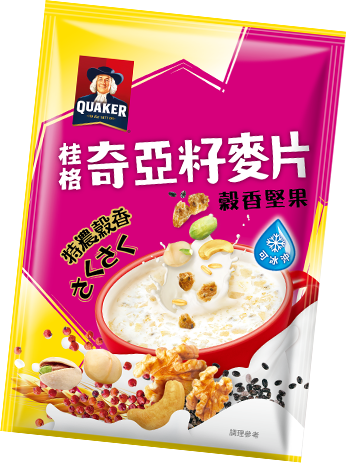
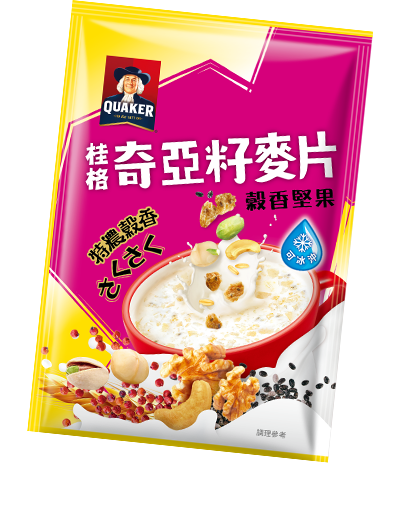
update main product info on desktop

diff --git a/css/index.sass b/css/index.sass
@@ -1056,28 +1056,11 @@ section#product
                                 width: 102px
                                 height: 96px
                                 background: url(../images/new.png) no-repeat center/contain
-                        .product05
-                            margin: 10px 0 10px 15px
-                            background-repeat: no-repeat
-                            background-size: contain
-                            background-position: top
-                            width: 346px
-                            height: 463px
-                            position: relative
-                            &::after
-                                content: ""
-                                position: absolute
-                                top: -40px
-                                left: -20px
-                                width: 102px
-                                height: 96px
-                                background: url(../images/new.png) no-repeat center/contain
                         .shadow
                             width: 331px
                             height: 28px
                             background-image: url(../images/product_shadow.png)
                             background-repeat: no-repeat
-                            margin-top: -50px
                     .info_box
                         float: left
                         position: relative
@@ -1303,23 +1286,6 @@ section#product
                     &.dot05
                         .bg
                             background-image: url(../images/product_dot05.png)
-                        .img
-                            .product05
-                                background-repeat: no-repeat
-                                background-size: contain
-                                background-position: top
-                                width: 195.2px
-                                height: 245px
-                                position: relative
-                                &::after
-                                    content: ""
-                                    position: absolute
-                                    bottom: -23.6px
-                                    right: -28px
-                                    width: 94px
-                                    height: 89px
-                                    background: url(../images/new.png) no-repeat center/contain
-                                    transform: rotate(45deg)
                         .name
                             p
                                 color: #d6007b
@@ -1401,7 +1367,7 @@ section#product
                                         border-width: 0px 3px 3px 0
                         &.dot05
                             .img
-                                .product05
+                                img
                                     position: relative
                                     top: -20px
                             .name

diff --git a/css/index.css b/css/index.css
@@ -1524,30 +1524,11 @@ section#product [class^=main] [class^=item_box] .items [class^=item] .img .produ
   height: 96px;
   background: url(../images/new.png) no-repeat center/contain;
 }
-section#product [class^=main] [class^=item_box] .items [class^=item] .img .product05 {
-  margin: 10px 0 10px 15px;
-  background-repeat: no-repeat;
-  background-size: contain;
-  background-position: top;
-  width: 346px;
-  height: 463px;
-  position: relative;
-}
-section#product [class^=main] [class^=item_box] .items [class^=item] .img .product05::after {
-  content: "";
-  position: absolute;
-  top: -40px;
-  left: -20px;
-  width: 102px;
-  height: 96px;
-  background: url(../images/new.png) no-repeat center/contain;
-}
 section#product [class^=main] [class^=item_box] .items [class^=item] .img .shadow {
   width: 331px;
   height: 28px;
   background-image: url(../images/product_shadow.png);
   background-repeat: no-repeat;
-  margin-top: -50px;
 }
 section#product [class^=main] [class^=item_box] .items [class^=item] .info_box {
   float: left;
@@ -1831,24 +1812,6 @@ section#product [class^=main] [class^=item_box] .dots [class^=dot].dot04 .name .
 section#product [class^=main] [class^=item_box] .dots [class^=dot].dot05 .bg {
   background-image: url(../images/product_dot05.png);
 }
-section#product [class^=main] [class^=item_box] .dots [class^=dot].dot05 .img .product05 {
-  background-repeat: no-repeat;
-  background-size: contain;
-  background-position: top;
-  width: 195.2px;
-  height: 245px;
-  position: relative;
-}
-section#product [class^=main] [class^=item_box] .dots [class^=dot].dot05 .img .product05::after {
-  content: "";
-  position: absolute;
-  bottom: -23.6px;
-  right: -28px;
-  width: 94px;
-  height: 89px;
-  background: url(../images/new.png) no-repeat center/contain;
-  transform: rotate(45deg);
-}
 section#product [class^=main] [class^=item_box] .dots [class^=dot].dot05 .name p {
   color: #d6007b;
 }
@@ -1941,7 +1904,7 @@ section#product [class^=main] [class^=item_box] .dots [class^=dot].active.dot04 
   border: solid #e60012;
   border-width: 0px 3px 3px 0;
 }
-section#product [class^=main] [class^=item_box] .dots [class^=dot].active.dot05 .img .product05 {
+section#product [class^=main] [class^=item_box] .dots [class^=dot].active.dot05 .img img {
   position: relative;
   top: -20px;
 }

diff --git a/index.html b/index.html
@@ -289,8 +289,8 @@
                 <div class="i02"></div>
                 <div class="bg"></div>
                 <div class="img">
-                  <div class="product05" style="background-image: url(./images/product05.png); "></div>
-                  <div class="shadow" style="margin-top: -22px;"></div>
+                  <img src="" ds="images/product05.png" alt="穀香堅果"/>
+                  <div class="shadow"></div>
                 </div>
                 <div class="info_box">
                   <h2>穀香堅果</h2>
@@ -304,7 +304,7 @@
               <div class="item06">
                 <div class="i02"></div>
                 <div class="bg"></div>
-                <div class="img"><img src="" ds="images/product06.png" alt="奇亞籽藜麥核桃">
+                <div class="img"><img src="" ds="images/product06.png" alt="奇亞籽藜麥核桃"/>
                   <div class="shadow"></div>
                 </div>
                 <div class="info_box">
@@ -336,8 +336,8 @@
               <div class="dot05 active" dot="5">
                 <div class="bg"></div>
                 <div class="img">
-                  <div class="product05" style="background-image: url(./images/product05.png); "></div>
-                  <div class="shadow" style="margin-top: -13.3px;"></div>
+                  <img src="" ds="images/product05.png" alt="穀香堅果"/>
+                  <div class="shadow"></div>
                 </div>
                 <div class="name">
                   <p>穀香堅果</p>
